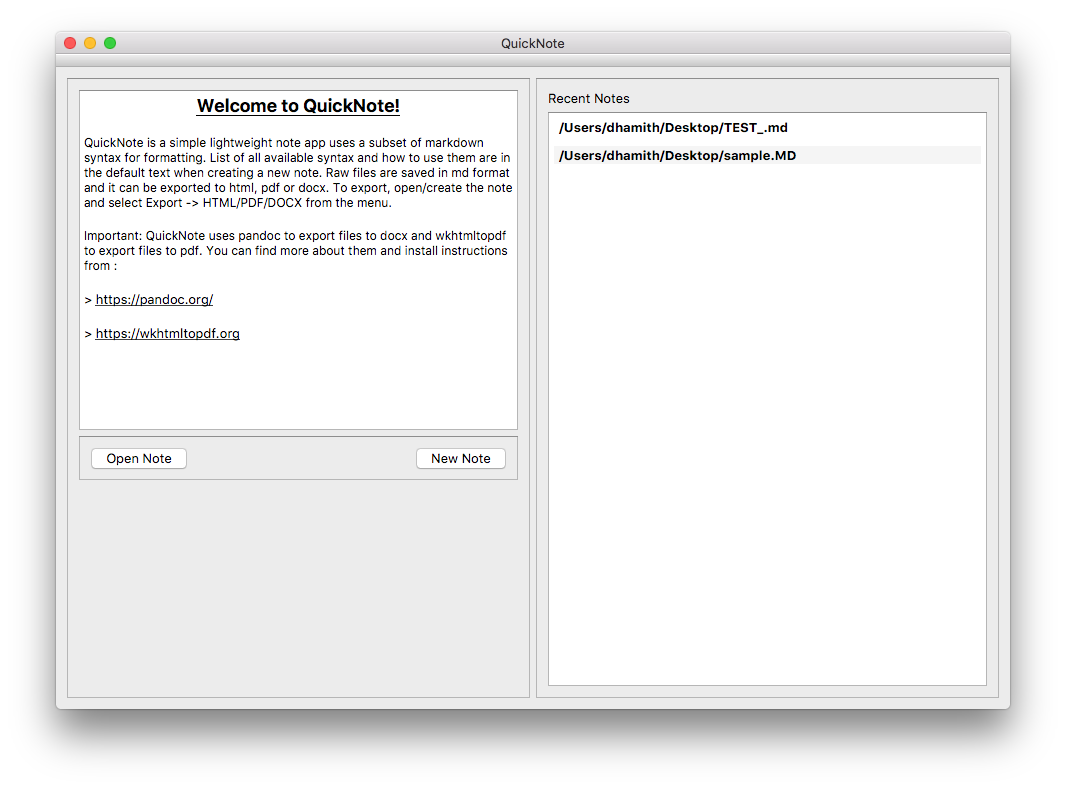
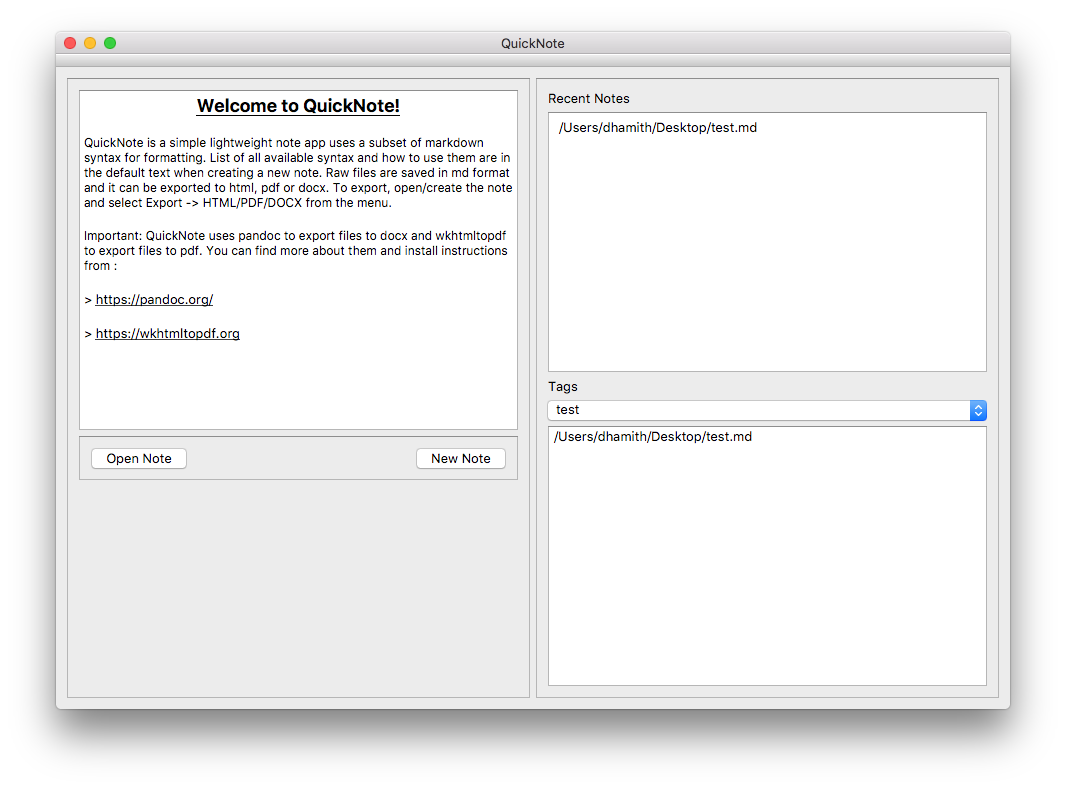
Updated README. New Screenshots

Changed region(s): [[0.4953, 0.4867, 0.9287, 0.5779], [0.5263, 0.1521, 0.743, 0.2129]]

diff --git a/README.md b/README.md
@@ -31,7 +31,7 @@ QuickNote is a simple note app that uses subset of markdown syntax for formattin
 - [x] Syntax highlighting in exported HTML
 - [x] ~~WebEngine Preview with full HTML+CSS support~~
 - [x] Pretty Preview with default browser
-- [ ] Categories/Tags ? 
+- [x] ~~Categories~~/Tags 
 
 ### Screenshots
 
